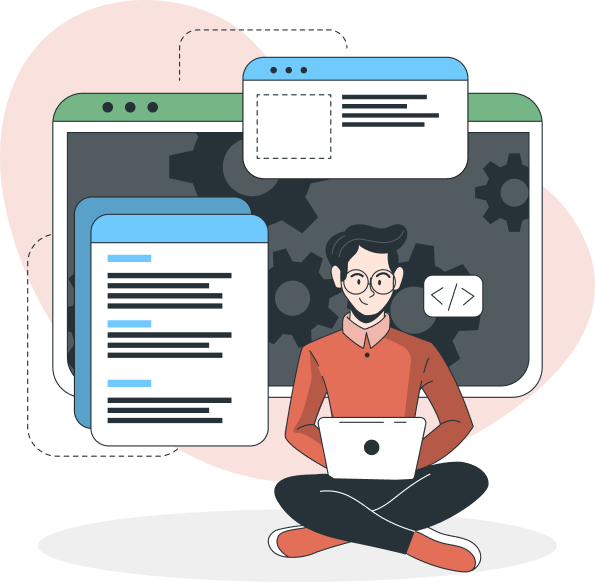
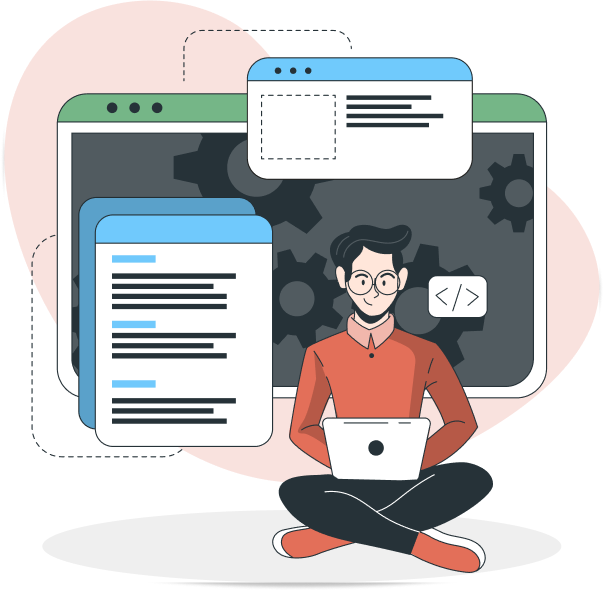
full

diff --git a/src/sass/about.scss b/src/sass/about.scss
@@ -2,178 +2,151 @@
 
 .about{
     padding: 56px 0 120px;
+    background-image: url("/src/assets/images/bg_main.png");
+    background-repeat: no-repeat;
+    background-size: 100%;
+    background-position-x:-130px;
+    background-position-y:-30px;
+    @media (max-width:1200px){
+        background-position-x:0px;
+    }
     @media (max-width:1024px){
         padding: 5px 0 50px;
+        background-position-y:-70px;
+        background-position-x:30px;
     }
     @media (max-width:768px){
         padding: 20px 0 80px;
+        background: #ffffff;
     }
-//    min-height: 100vh;
-    .content{
-        display:flex;
-        align-items: stretch;
-        position: relative;
-        top: 0;
-        left: 0;
+    .wrapper{
+        display: flex;
+        flex-direction: column;
+        max-width: 60%;
+        width: 100%;
         @media (max-width:768px){
-            display: grid;
-            grid-template-columns: 1fr;
-            grid-template-areas: "title"
-                "text"
-                "image"
-                "button"
+            max-width: 100%;
         }
-         &::before{
-            content: "";
-            width: 156px;
-            height: 545px;
-            background-image: url("../assets/images/main_ITifico.svg");
-            background-repeat: no-repeat;
-            position: absolute;
-            top: 0px;
-            left: -156px;
-        }
-        
-        &::after{
-            content: "";
-            width: 857px;
-            height: 695px;
-            background-image: url("../assets/images/bob_grey.svg");
-            background-repeat: no-repeat;
-            position: absolute;
-            top: -140px;
-            left: -330px;
-            z-index: -1;
-        }
-        article{
+        >h1{
             max-width: 636px;
-            width: 100%;
-            margin-right: 20px;
+            @include fontz($bit,$fst,700,60px,72px,$col1);
+            letter-spacing: 0.005em;
+            grid-area: title;
+            @media (max-width:1024px){
+                @include fontz($bit,$fst,700,40px,48px,$col1);
+            }
             @media (max-width:768px){
-                margin: 0;
-            }
-            >h1{
-                @include fontz($bit,$fst,700,60px,72px,$col1);
-                letter-spacing: 0.005em;
-                grid-area: title;
-                @media (max-width:1024px){
-                    @include fontz($bit,$fst,700,40px,48px,$col1);
-                }
-                @media (max-width:768px){
-                    text-align: center;
-                    @include fontz($bit,$fst,700,30px,36px,$col1);
-                }
-                >span{
-                    color: $orange;
-                }
-            }
-            >p {
-                @include fontz($mon,$fst,400,18px,26px,$col2);
-                margin-top: 22px;
-                max-width: 480px;
-                width: 100%;
-                grid-area: text;
-                @media (max-width:1024px){
-                    margin-top: 30px;
-                    @include fontz($mon,$fst,400,18px,24px,$col2);
-                }
-                @media (max-width:768px){
-                    text-align: center;
-                    max-width: 100%;
-                    margin-top: 13px;
-                    @include fontz($mon,$fst,400,16px,20px,$col2);
-                }
-                >span{
-                    @media (max-width:1024px){
-                        display: none;
-                    }
-                }
-            }
-            >a{
-                width: 227px;
-                height: 60px;
-                padding: 21px 0;
                 text-align: center;
-                display: inline-block;
-                margin-top: 50px;
-                @include fontz($bit,$fst,600,16px,19px,$col2);
-                background-color: $orange;
-                text-decoration: $td;
-                color: $white;
-                border-radius: 8px;
-                grid-area: button;
-                @media (max-width:768px){
-                    width: 157px;
-                    height: 50px;
-                    padding: 16px;
-                }
-                >svg {
-                    margin-left: 20px;
-                    @media (max-width:1024px){
-                        display: none;
-                    }
-                }
+                @include fontz($bit,$fst,700,30px,36px,$col1);
             }
-            .about__info-items{
-                display: flex;
-                align-items: center;
-                margin-top: 78px;
-                @media (max-width:768px){
+            >span{
+                color: $orange;
+            }
+        }
+        >p {
+            @include fontz($mon,$fst,400,18px,26px,$col2);
+            margin-top: 22px;
+            max-width: 512px;
+            width: 100%;
+            grid-area: text;
+            @media (max-width:1024px){
+                margin-top: 30px;
+                @include fontz($mon,$fst,400,18px,24px,$col2);
+            }
+            @media (max-width:768px){
+                text-align: center;
+                max-width: 100%;
+                margin-top: 13px;
+                @include fontz($mon,$fst,400,16px,20px,$col2);
+            }
+            >span{
+                @media (max-width:1024px){
                     display: none;
                 }
-                >svg{
-                    margin-right: 13px;
-                }
-                >p{
-                    @include fontz($mon,$fst,400,14px,14px,$col1);
-                    margin-right: 30px;
-                }
-                >span{
-                    height: 1px;
-                    max-width: 523px;
-                    width: 100%;
-                    background-color: #D8DFDA;
-                }
-            }
-        }
-        .about__image{
-            position: relative;
-            top: 0;
-            left: 0;
-            max-width: 595px;
-            width: 100%;
-            grid-area: image;
-            >img{
-                object-fit: cover;
-                max-width: 100%;
-                @media (max-width:768px){
-                    object-fit: contain;
-                }      
-            }
-            &::before {
-                content: "";
-                width: 179px;
-                height: 120px;
-                background-image: url("../assets/images/main_image_before.jpg");
-                background-repeat: no-repeat;
-                position: absolute;
-                bottom: 80px;
-                left: -100px;
-                z-index: -1;
-            }
-            &::after {
-                content: "";
-                width: 185px;
-                height: 120px;
-                background-image: url("../assets/images/main_image_after.jpg");
-                background-repeat: no-repeat;
-                position: absolute;
-                top: 10px;
-                right: -60px;
-                z-index: -1;
             }
         }
     }
+    img{
+        display: none;
+        @media (max-width:768px){
+            display: block;
+            margin: 20px auto 0;
+        }
+    }
+    .container{
+        @media (max-width:1024px){
+            margin-top: 200px;
+            display: flex;
+            align-items: center;
+        }
+        @media (max-width:900px){
+            margin-top: 150px;
+        }
+        @media (max-width:840px){
+            margin-top: 110px;
+        }
+        @media (max-width:768px){
+            margin-top: 20px;
+            justify-content:center;
+        }
+        a{
+            width: 227px;
+            height: 60px;
+            padding: 21px 0;
+            text-align: center;
+            display: inline-block;
+            margin-top: 50px;
+            @include fontz($bit,$fst,600,16px,19px,$col2);
+            background-color: $orange;
+            text-decoration: $td;
+            color: $white;
+            border-radius: 8px;
+            grid-area: button;
+            @media (max-width:1024px){
+                margin-top: 0;
+                margin-right: 30px;
+            }
+            @media (max-width:768px){
+                width: 100%;
+                margin: 0;
+                height: 50px;
+                padding: 16px;
+            }
+            >svg {
+                margin-left: 20px;
+                @media (max-width:1024px){
+                    display: none;
+                }
+            }
+        }
+        .about__info-items{
+            display: flex;
+            align-items: center;
+            margin-top: 78px;
+            @media (max-width:1024px){
+                margin-top: 0;
+            }
+            @media (max-width:1024px){
+                width: calc(100% - 227px - 30px);
+                flex-direction: row-reverse;
+            }
+            @media (max-width:768px){
+                display: none;
+            }
+            >svg{
+                margin-right: 13px;
+            }
+            >p{
+                @include fontz($mon,$fst,400,14px,14px,$col1);
+                margin-right: 30px;
+            }
+            >span{
+                height: 1px;
+                max-width: 523px;
+                width: 100%;
+                background-color: #D8DFDA;
+            }
+        }
+    } 
 }
-
-
+    

diff --git a/src/index.html b/src/index.html
@@ -48,26 +48,26 @@
     <main>
         <section class="about">
             <div class="content about__content">
-                <article class="about__info">
+                <div class="wrapper">
                     <h1 class="title about__info-title"><span>ITifico</span>  — платформа для вашего изучения кода</h1>
                     <p class="text about__info-text">Курсы для начинающих и продвинутых программистов, а также интересные статьи. <span>Присоединяйтесь и разрешите нам поддержать вас в вашей карьере</span> </p>
+                </div>
+                <img src="assets/images/bg_main_mobile.png" alt="1" width="256" height="250">
+                <div class="container">
                     <a href="#" class="about__info-btn">Call to action
-                        <svg class="about__info-btn--arrow"  width="40" height="12" viewBox="0 0 40 12" fill="none" xmlns="http://www.w3.org/2000/svg">
+                            <svg class="about__info-btn--arrow"  width="40" height="12" viewBox="0 0 40 12" fill="none" xmlns="http://www.w3.org/2000/svg">
 <path d="M40 6.00012L34 12L34 7.18093L34 4.81915L34 9.53674e-07L40 6.00012Z" fill="white"/>
 <line y1="-1" x2="34.4444" y2="-1" transform="matrix(-1 -1.95661e-08 1.57269e-08 1 34.4453 7)" stroke="white" stroke-width="2"/>
 </svg>
-                    </a>
-                    <div class="about__info-items">
-                        <svg class="about__info-item--mouse" width="20" height="30" viewBox="0 0 20 30" fill="none" xmlns="http://www.w3.org/2000/svg">
+                        </a>
+                <div class="about__info-items">
+                            <svg class="about__info-item--mouse" width="20" height="30" viewBox="0 0 20 30" fill="none" xmlns="http://www.w3.org/2000/svg">
 <path d="M20 9.88233C20 6.35164 18.094 3.08882 14.9999 1.3241C11.9061 -0.441367 8.09377 -0.441367 5.00006 1.3241C1.90597 3.08932 0 6.35183 0 9.88233V20.1177C0 23.6484 1.90603 26.9112 5.00006 28.6759C8.0939 30.4414 11.9062 30.4414 14.9999 28.6759C18.094 26.9107 20 23.6482 20 20.1177V9.88233ZM18.5716 20.1177H18.5713C18.5713 23.1439 16.9379 25.9404 14.2857 27.4532C11.6339 28.9663 8.36642 28.9663 5.71441 27.4532C3.06228 25.9401 1.42881 23.1436 1.42881 20.1177V9.88233C1.42881 6.8561 3.06228 4.0596 5.71441 2.5468C8.36629 1.03368 11.6337 1.03368 14.2857 2.5468C16.9379 4.05991 18.5713 6.85642 18.5713 9.88233L18.5716 20.1177Z" fill="#23262D"/>
 <path d="M10 7.00001C9.4475 7.00001 9 7.34961 9 7.7812V12.2188C9 12.6502 9.44751 13 10 13C10.5525 13 11 12.6501 11 12.2188V7.7812C11 7.57411 10.8947 7.37521 10.707 7.22888C10.5197 7.08228 10.2651 7 9.99998 7L10 7.00001Z" fill="#E36F59"/>
 </svg>
                         <p class="about__info-item--text">Листай вниз</p>
                         <span class="about__info-item--line"></span>
                     </div>
-                </article>
-                <div class="about__image">
-                    <img src="assets/images/main_img.png" width="595px" height="582px" alt="study">
                 </div>
             </div>
         </section>
